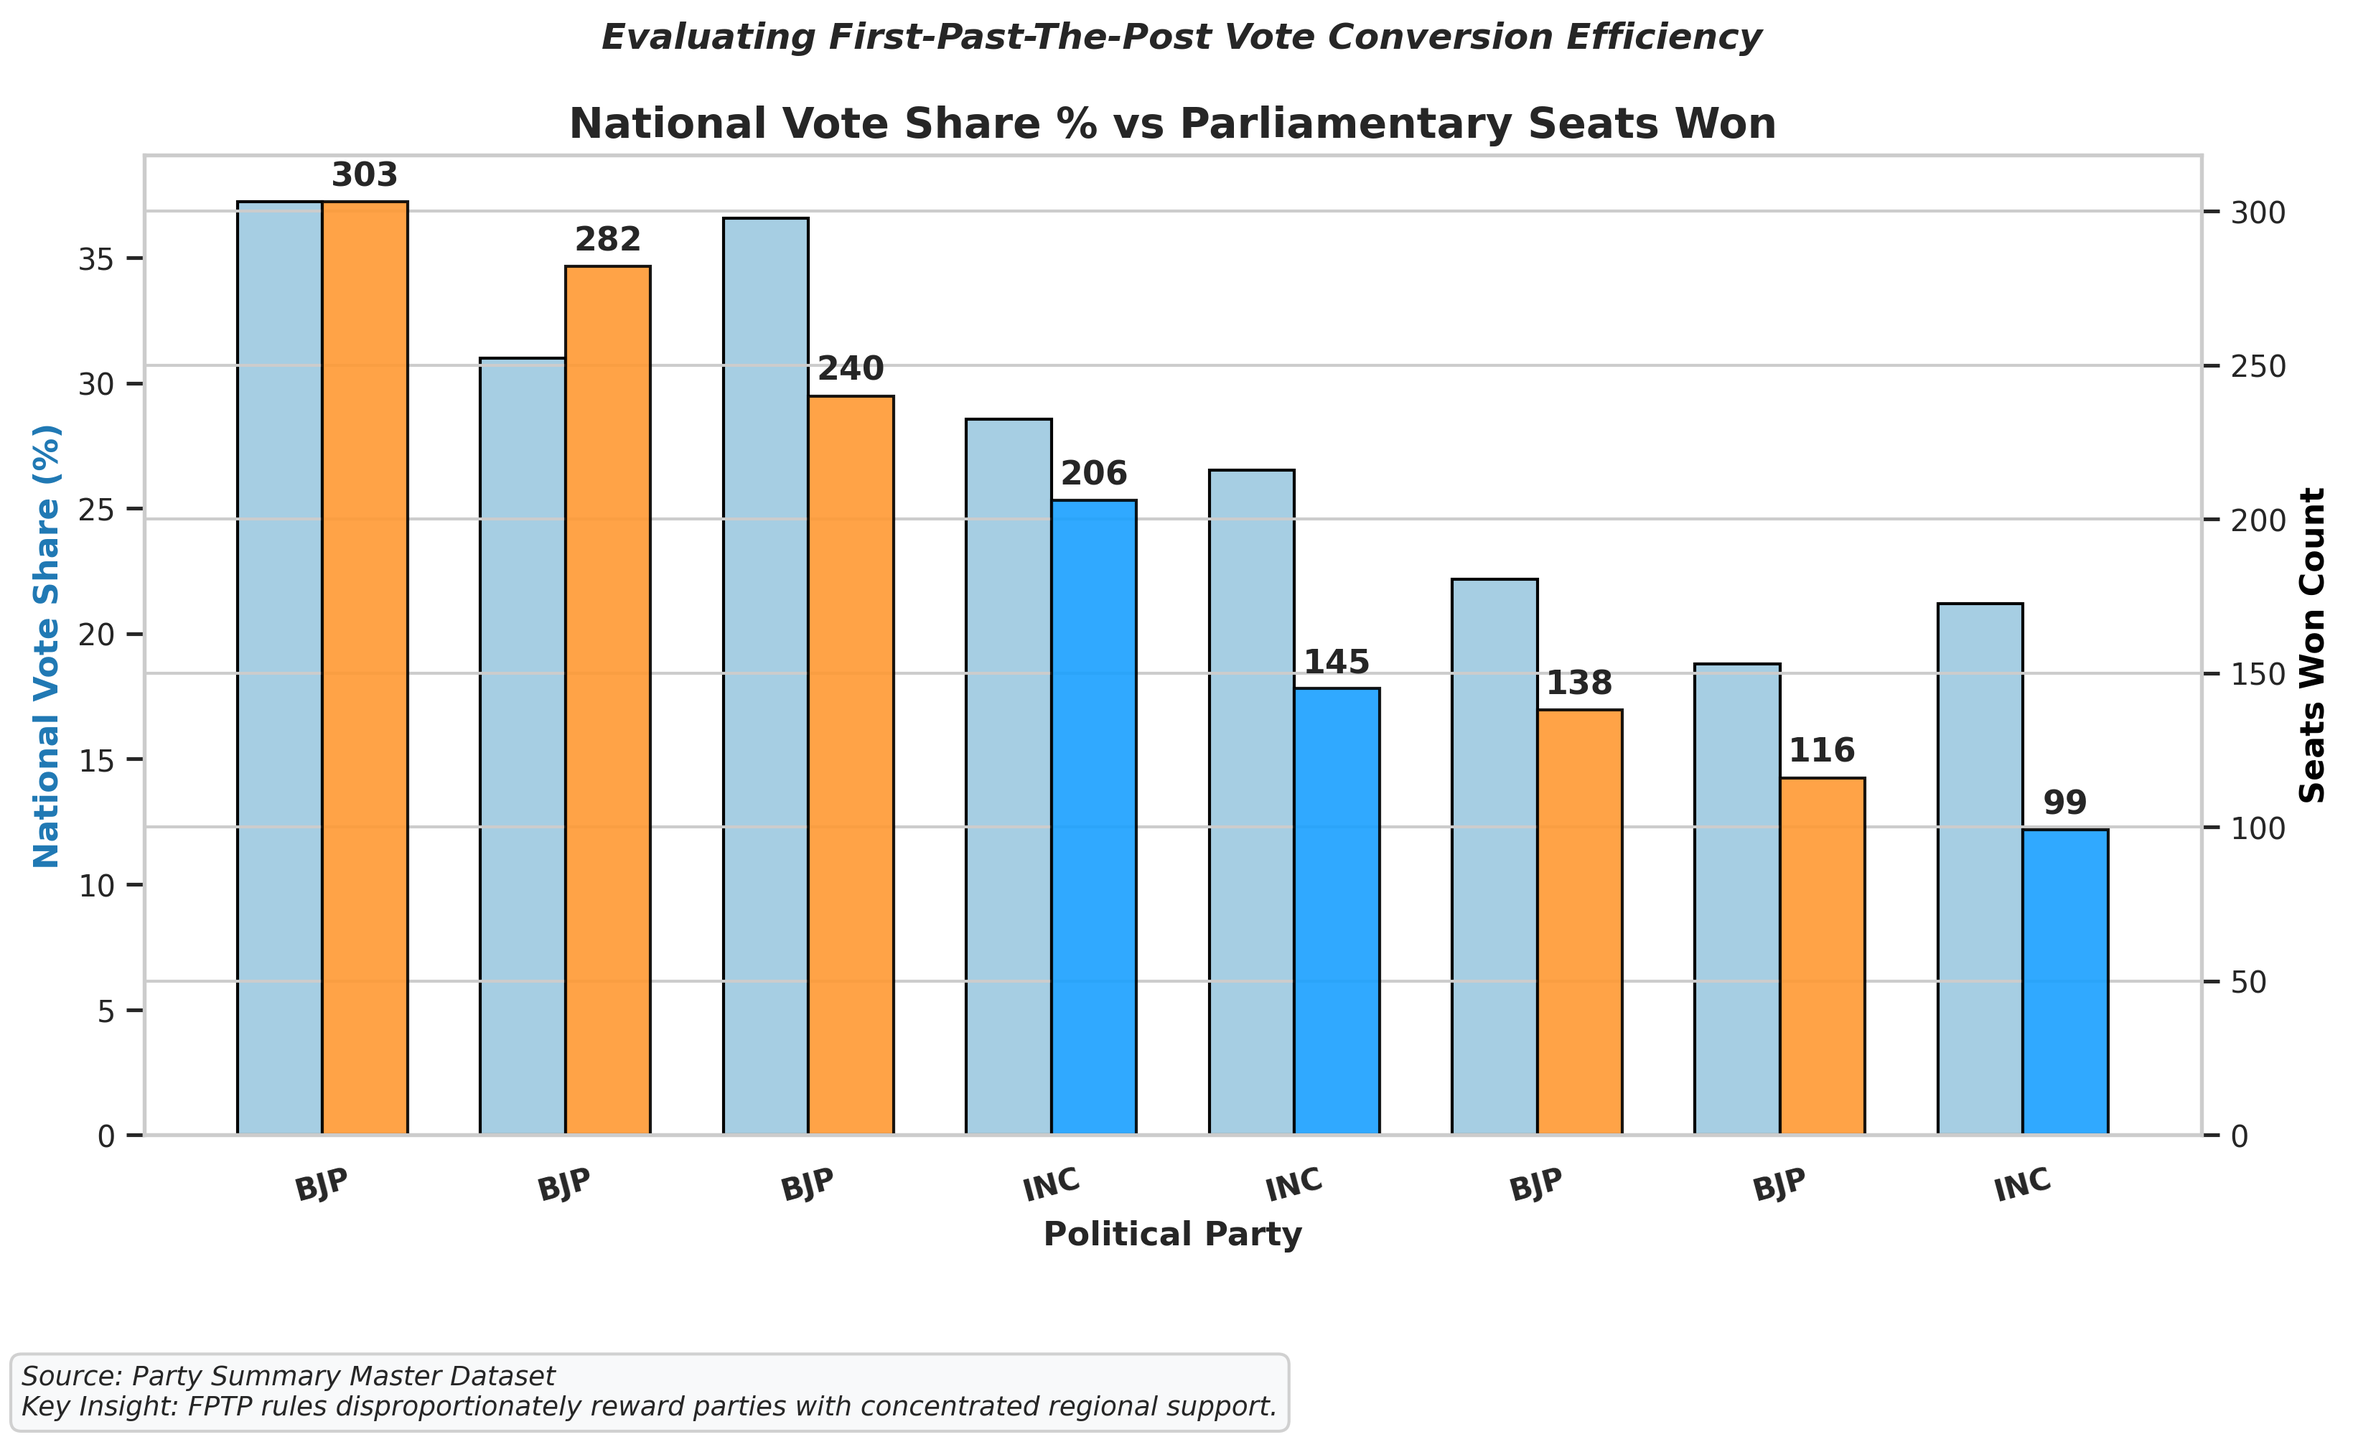
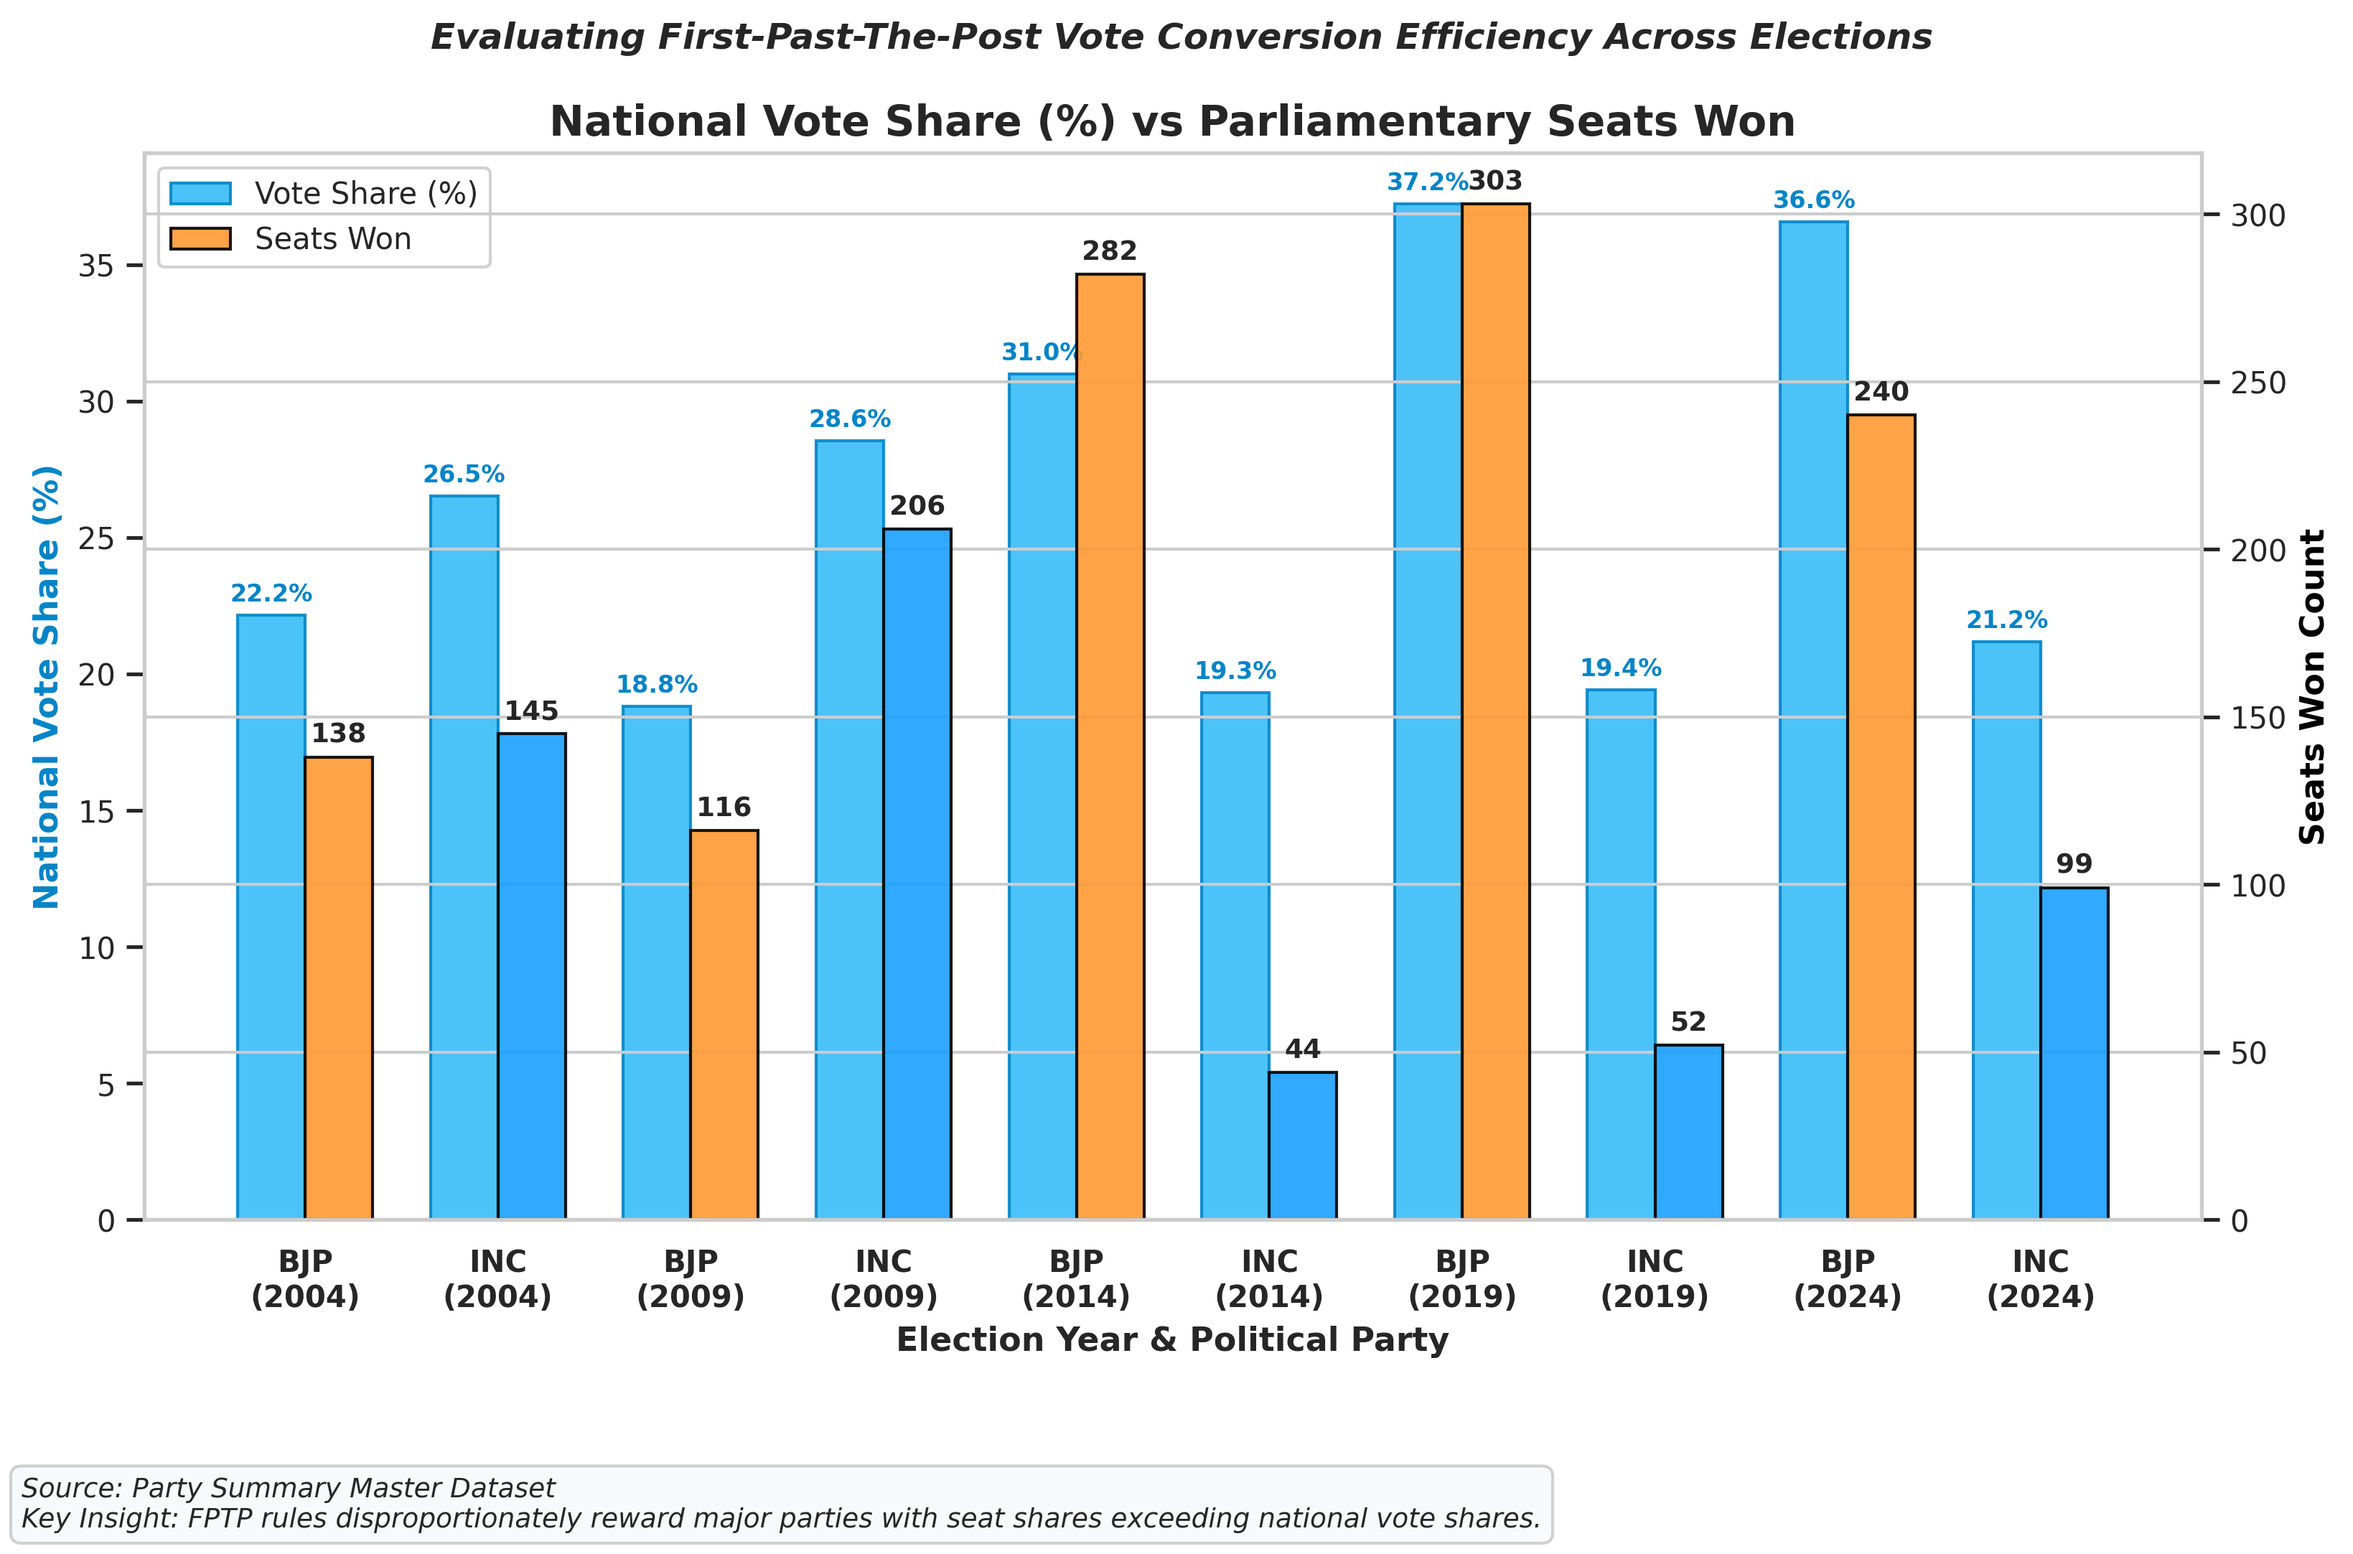
Files updated for figure 2

diff --git a/src/visualizations/party.py b/src/visualizations/party.py
@@ -208,46 +208,98 @@ def plot_vote_seat_conversion(df: pd.DataFrame, output_dir: Optional[Path] = Non
     setup_matplotlib_style()
     
     party_col = find_party_col(df)
-    
-    if "Percentage" in df.columns and "Seats" in df.columns:
-        latest = df.sort_values("Seats", ascending=False).head(8)
-    else:
-        agg = df.groupby(party_col).agg(
-            Seats=(find_party_col(df), "count"),
-            Total_Votes=(find_vote_col(df), "sum")
-        ).reset_index()
-        total_all = agg["Total_Votes"].sum()
-        agg["Percentage"] = (agg["Total_Votes"] / total_all * 100) if total_all > 0 else 0.0
-        latest = agg.sort_values("Seats", ascending=False).head(8)
-        latest.rename(columns={party_col: "Party"}, inplace=True)
+    vote_col = find_vote_col(df)
+    has_year = "Year" in df.columns and df["Year"].notna().any()
 
-    fig, ax1 = plt.subplots(figsize=(11, 6))
+    # Normalize input dataset to ensure Year, Party, Seats, and Percentage are available
+    if "Seats" in df.columns and "Percentage" in df.columns and "Party" in df.columns:
+        norm_df = df.copy()
+    else:
+        group_cols = ["Year", party_col] if has_year else [party_col]
+        agg = df.groupby(group_cols).agg(
+            Seats=(party_col, "count"),
+            Total_Votes=(vote_col, "sum")
+        ).reset_index()
+
+        if has_year:
+            year_totals = agg.groupby("Year")["Total_Votes"].transform("sum")
+            agg["Percentage"] = np.where(year_totals > 0, (agg["Total_Votes"] / year_totals) * 100, 0.0)
+        else:
+            tot = agg["Total_Votes"].sum()
+            agg["Percentage"] = (agg["Total_Votes"] / tot * 100) if tot > 0 else 0.0
+
+        agg.rename(columns={party_col: "Party"}, inplace=True)
+        norm_df = agg
+
+    if "Year" in norm_df.columns and norm_df["Year"].notna().any():
+        unique_years = sorted(norm_df["Year"].dropna().unique())
+        if len(unique_years) > 1:
+            # Multi-year selection: get top 2 parties by total seats across selected years
+            top_parties = norm_df.groupby("Party")["Seats"].sum().sort_values(ascending=False).head(2).index.tolist()
+            if not top_parties:
+                top_parties = ["BJP", "INC"]
+            filtered = norm_df[norm_df["Party"].isin(top_parties)].copy()
+            filtered["Year"] = filtered["Year"].astype(int)
+            latest = filtered.sort_values(["Year", "Party"]).reset_index(drop=True)
+        else:
+            # Single-year selection: get top 8 parties for that specific year
+            latest = norm_df.sort_values("Seats", ascending=False).head(8).reset_index(drop=True)
+    else:
+        latest = norm_df.sort_values("Seats", ascending=False).head(8).reset_index(drop=True)
+
+    fig, ax1 = plt.subplots(figsize=(11, 6.5))
 
     x = np.arange(len(latest))
     width = 0.35
-    party_names = latest["Party"] if "Party" in latest.columns else latest[party_col]
+    party_names = latest["Party"]
     bar_colors = [get_party_color(p) for p in party_names]
 
-    ax1.bar(x - width / 2, latest["Percentage"], width, label="Vote Share %", color="#a6cee3", edgecolor="black")
+    # Plot Vote Share % on Left Axis (ax1)
+    bars1 = ax1.bar(x - width / 2, latest["Percentage"], width, label="Vote Share (%)", color="#38bdf8", edgecolor="#0284c7", alpha=0.9)
+    
+    # Plot Seats Won on Right Axis (ax2)
     ax2 = ax1.twinx()
     bars2 = ax2.bar(x + width / 2, latest["Seats"], width, label="Seats Won", color=bar_colors, edgecolor="black", alpha=0.9)
 
-    ax1.set_title("National Vote Share % vs Parliamentary Seats Won")
-    fig.suptitle("Evaluating First-Past-The-Post Vote Conversion Efficiency", y=0.98, fontsize=12, style="italic")
-    ax1.set_xlabel("Political Party")
-    ax1.set_ylabel("National Vote Share (%)", color="#1f78b4")
-    ax2.set_ylabel("Seats Won Count", color="black")
+    ax1.set_title("National Vote Share (%) vs Parliamentary Seats Won")
+    fig.suptitle("Evaluating First-Past-The-Post Vote Conversion Efficiency Across Elections", y=0.98, fontsize=12, style="italic")
+    ax1.set_xlabel("Election Year & Political Party")
+    ax1.set_ylabel("National Vote Share (%)", color="#0284c7", fontweight="bold")
+    ax2.set_ylabel("Seats Won Count", color="black", fontweight="bold")
+    
+    # Format x-ticks with Year & Party Name
+    x_labels = []
+    for idx, row in latest.iterrows():
+        p_name = row["Party"]
+        if "Year" in row and pd.notna(row["Year"]):
+            x_labels.append(f"{p_name}\n({int(row['Year'])})")
+        else:
+            x_labels.append(str(p_name))
+
     ax1.set_xticks(x)
-    ax1.set_xticklabels(party_names, fontweight="bold", rotation=15)
+    ax1.set_xticklabels(x_labels, fontweight="bold", rotation=0)
     ax1.grid(False)
 
+    # Annotate Vote Share % on ax1 bars
+    for bar in bars1:
+        height = bar.get_height()
+        if height > 0:
+            ax1.annotate(f"{height:.1f}%", xy=(bar.get_x() + bar.get_width() / 2, height),
+                         xytext=(0, 3), textcoords="offset points", ha="center", va="bottom", fontsize=8, color="#0284c7", fontweight="bold")
+
+    # Annotate Seats Won on ax2 bars
     for bar in bars2:
         height = bar.get_height()
         if height > 0:
             ax2.annotate(f"{int(height)}", xy=(bar.get_x() + bar.get_width() / 2, height),
-                        xytext=(0, 3), textcoords="offset points", ha="center", va="bottom", fontweight="bold")
+                         xytext=(0, 3), textcoords="offset points", ha="center", va="bottom", fontweight="bold", fontsize=9)
 
-    insight = "FPTP rules disproportionately reward parties with concentrated regional support."
+    # Unified explicit legend combining both axes
+    lines1, labels1 = ax1.get_legend_handles_labels()
+    lines2, labels2 = ax2.get_legend_handles_labels()
+    ax1.legend(lines1 + lines2, labels1 + labels2, loc="upper left", frameon=True, facecolor="white", framealpha=0.9)
+
+    insight = "FPTP rules disproportionately reward major parties with seat shares exceeding national vote shares."
     add_chart_footer(fig, "Party Summary Master Dataset", insight)
 
     if output_dir is not None:

diff --git a/src/visualizations/statistical.py b/src/visualizations/statistical.py
@@ -39,7 +39,7 @@ def plot_coalition_trajectory(c_df: pd.DataFrame, output_dir: Optional[Path] = N
     else:
         agg_df = pd.DataFrame(
             {"NDA": [181, 159, 336, 353, 292], "UPA / I.N.D.I.A.": [218, 262, 60, 91, 235]},
-            index=[2004, 2008, 2014, 2019, 2024]
+            index=[2004, 2009, 2014, 2019, 2024]
         )
 
     desired_cols = ["NDA", "UPA / I.N.D.I.A.", "Left Front", "Others / Regional"]
